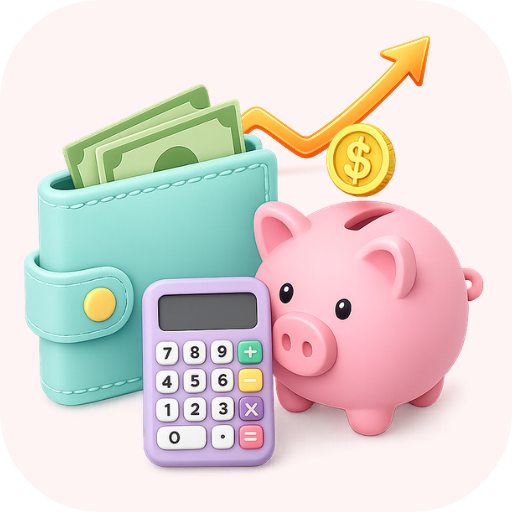
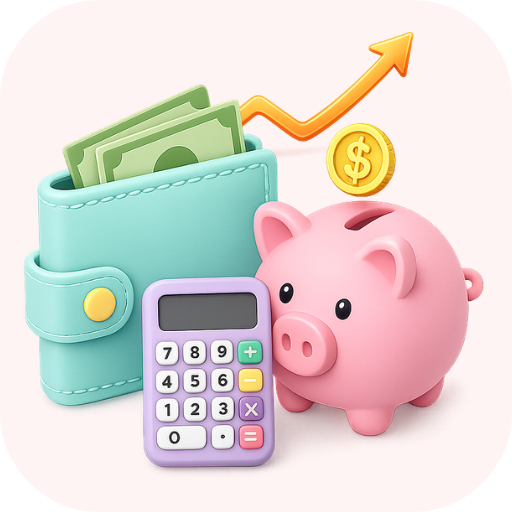
Add files via upload

Changed region(s): [[0.4688, 0.0625, 0.8438, 0.3125]]

diff --git a/app.js b/app.js
@@ -1571,6 +1571,8 @@ function submitActivationCode() {
     if (code === "r8Kp4QxZnV2") {
         localStorage.setItem("ezBudgetActivated", "true");
         closeActivationModal();
+        const menuActivation = document.getElementById("menuActivation");
+        if (menuActivation) menuActivation.style.display = "none";
     } else {
         error.style.display = "block";
         input.value = "";
@@ -4744,11 +4746,11 @@ async function clearBackupDirectoryHandle() {
 
 async function showWelcomeBackupReminder() {
 
-    const hasOpenedBefore = localStorage.getItem("hasOpenedBefore");
+    const hasOpenedBefore = localStorage.getItem("ezBudgetHasOpenedBefore");
     const shownThisSession = sessionStorage.getItem("welcomeBackupShownThisSession");
 
     if (!hasOpenedBefore) {
-        localStorage.setItem("hasOpenedBefore", "true");
+        localStorage.setItem("ezBudgetHasOpenedBefore", "true");
         return;
     }
 
